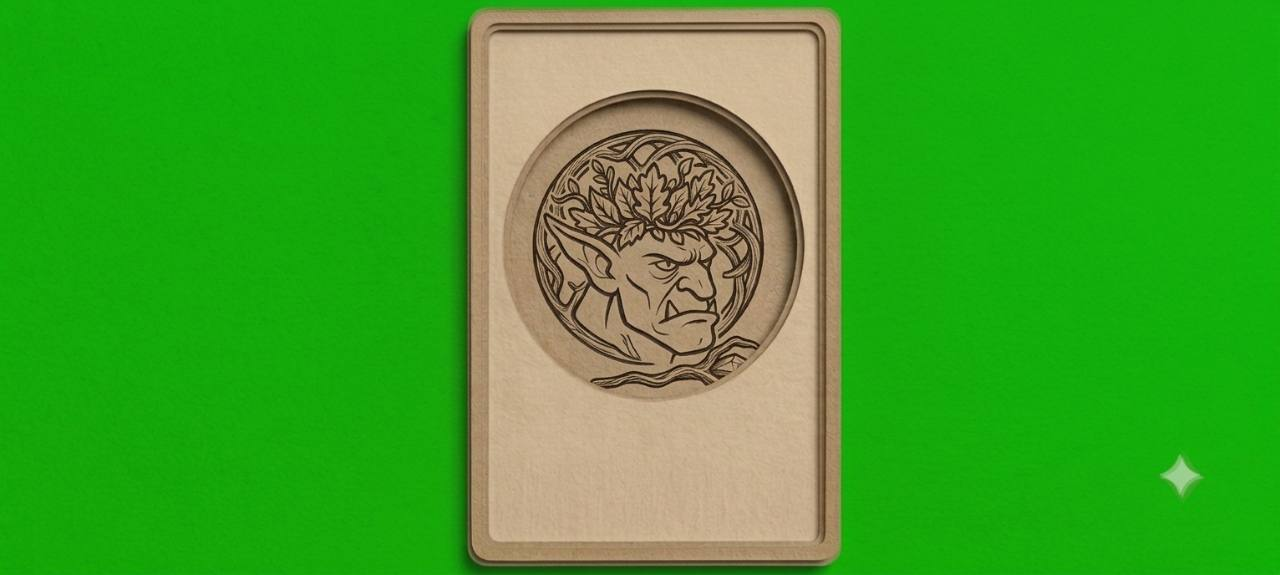
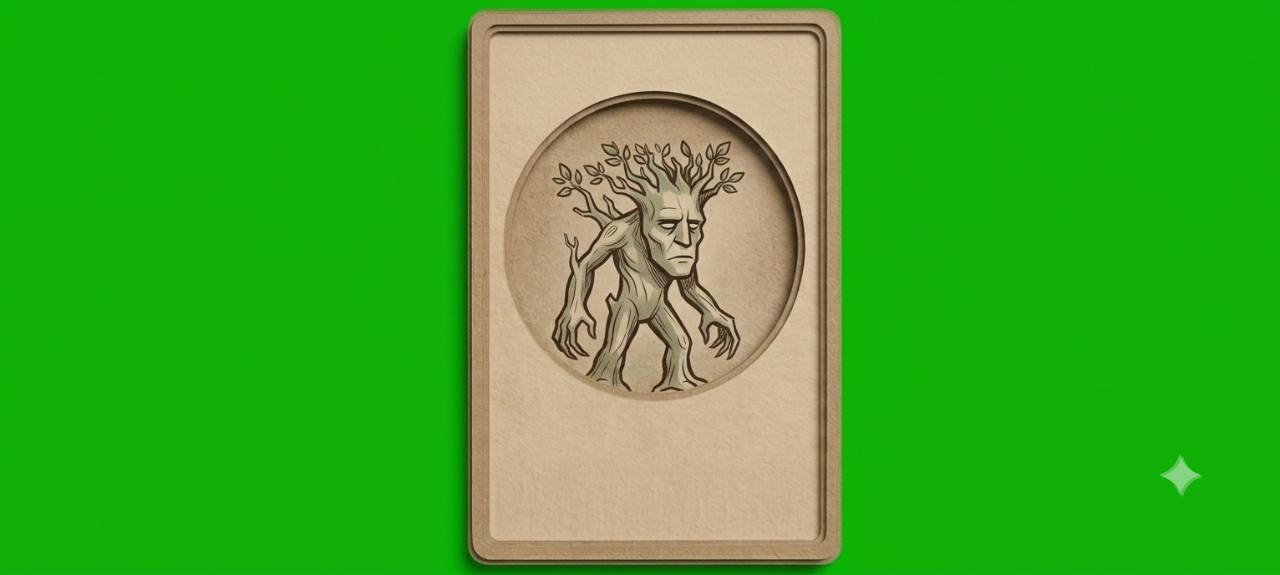
Connect five additional unit info cards

diff --git a/v2-unit-cards.js b/v2-unit-cards.js
@@ -1,5 +1,5 @@
 (function(root) {
-  const ART = ['minotaur','ice-lord','plague-frog','orc-warrior','plague-doctor','ghoul','goblin-chief','goblin-soldier','sea-wolf','grave-priest','abyss-eye','doom-executor','death-knight','hell-mantis','scorpion-knight'];
+  const ART = ['minotaur','ice-lord','plague-frog','orc-warrior','plague-doctor','ghoul','goblin-chief','goblin-soldier','sea-wolf','grave-priest','abyss-eye','doom-executor','death-knight','hell-mantis','scorpion-knight','ancient-treant','stone-golem','kraken','crystal-devourer','skeleton-spear'];
   let selected;
   function clearSelection() {
     if (selected) selected.classList.toggle('is-selected', false);
@@ -29,7 +29,7 @@
         if (ART.includes(unit.slug)) {
           // Crop the supplied 1280x575 photo to the card only, without changing the original.
           art.classList.add('has-card-art');
-          art.style.backgroundImage = 'url("art/v2-style/ui/unit-card-' + unit.slug + '.jpg")';
+          art.style.backgroundImage = 'url("art/v2-style/ui/unit-card-' + unit.slug + '.jpg?v=5")';
         } else {
           const image = document.createElement('img'); image.src = unit.portrait; image.alt = '';
           art.append(image);

diff --git a/test_v2_unit_cards.js b/test_v2_unit_cards.js
@@ -5,12 +5,12 @@ const api = require('./v2-unit-cards');
 assert(api.ART.includes('ghoul'));
 assert(api.ART.includes('goblin-chief'));
 assert(!api.ART.includes('bone-golem'));
-assert(!api.ART.includes('ancient-treant'));
+for (const slug of ['ancient-treant','stone-golem','kraken','crystal-devourer','skeleton-spear']) assert(api.ART.includes(slug));
 const field=node(); let selected;
 const units=api.ART.map((slug,slot)=>({slug,slot,team:'ally',name:slug,alive:true,hp:8,maxHp:8,portrait:'fallback.png'}));
 api.sync(field,units,u=>selected=u);
 assert.equal(field.children.length,1);
-assert.equal(field.children[0].children[0].children.length,15);
+assert.equal(field.children[0].children[0].children.length,20);
 units.forEach(u=>assert.equal(u.infoCard.children.length,1));
 units.forEach(u=>{u.infoCard.click();assert.equal(selected,u);assert(u.infoCard.children[0].style.backgroundImage.includes(u.slug));});
 units[0]={...units[0],slug:'guardian-seed'};

diff --git a/v2-auto-battle-practice.html b/v2-auto-battle-practice.html
@@ -111,7 +111,7 @@
   <script src="v2-combat-effects.js?v=7"></script>
   <script src="v2-damage-digits.js?v=3"></script>
   <script src="v2-unit-size.js?v=2"></script>
-  <script src="v2-unit-cards.js?v=4"></script>
+  <script src="v2-unit-cards.js?v=5"></script>
   <script src="v2-auto-battle-practice.js?v=34"></script>
 </body>
 </html>
